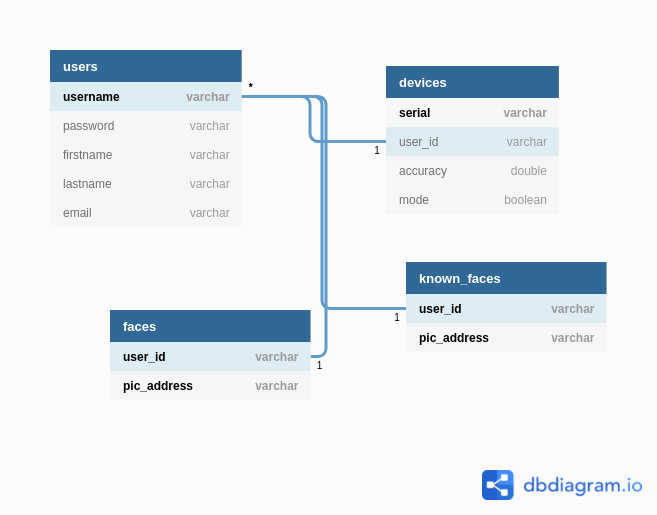
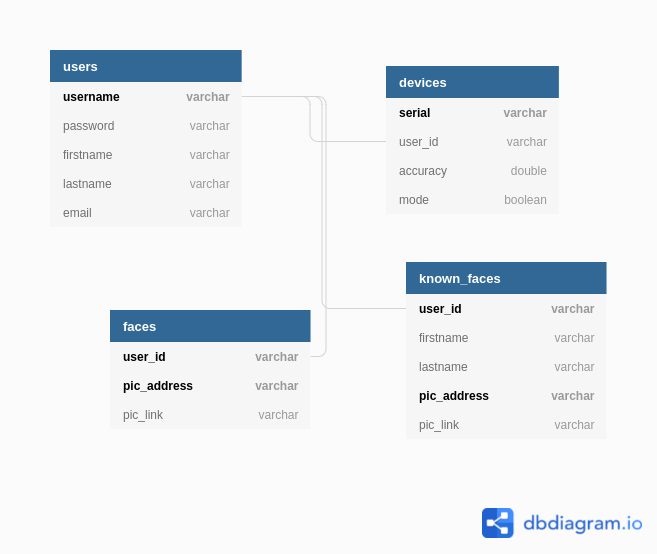
add pic address to known_faces and faces

diff --git a/mainApp/api/views.py b/mainApp/api/views.py
@@ -4,10 +4,22 @@ from rest_framework.permissions import AllowAny
 from mainApp.api.serializer import RegisterSerializer
 from rest_framework import generics
 
+from rest_framework.views import APIView
+from rest_framework.response import Response
+from rest_framework.permissions import IsAuthenticated
+
 
 class RegisterView(generics.CreateAPIView):
     queryset = User.objects.all()
     permission_classes = (AllowAny,)
     serializer_class = RegisterSerializer
-    # print('serializer_class.fields.')
 
+
+class HelloView(APIView):
+    permission_classes = (IsAuthenticated,)
+
+    def get(self, request):
+        user = request.user
+        output = {}
+        output['name'] = user.first_name
+        return Response(output)

diff --git a/mainApp/models.py b/mainApp/models.py
@@ -12,8 +12,11 @@ class Device(models.Model):
 class Face(models.Model):
     user = models.ForeignKey(User, on_delete=models.CASCADE, blank=False)
     pic_address = models.CharField(max_length=1024, blank=False)
+    pic_link = models.CharField(max_length=1024, blank=False, default=' ')
 
 
 class KnownFace(models.Model):
     user = models.ForeignKey(User, on_delete=models.CASCADE, blank=False)
-    pic_address = models.CharField(max_length=1024, blank=False)
+    pic_address = models.CharField(max_length=1024, blank=False, default=' ')
+    first_name = models.CharField(max_length=1024, blank=False, default=' ')
+    last_name = models.CharField(max_length=1024, blank=False, default=' ')

diff --git a/web/urls.py b/web/urls.py
@@ -2,7 +2,7 @@ from django.urls import path
 from rest_framework_simplejwt import views as jwt_views
 
 from mainApp.api.views import RegisterView
-from mainApp.views import HelloView
+from mainApp.api.views import HelloView
 from django.contrib import admin
 
 urlpatterns = [

diff --git a/README.md b/README.md
@@ -10,3 +10,5 @@ in below:
 ` http post http://127.0.0.1:8000/api/token/ username=mahdi  password=Ma13761376@ `
 
 chromium-browser --disable-web-security --user-data-dir="/home/mahdi"
+
+http GET 127.0.0.1:8000/hello/ 'Authorization:Bearer eyJ0eXAiOiJKV1QiLCJhbGciOiJIUzI1NiJ9.eyJ0b2tlbl90eXBlIjoiYWNjZXNzIiwiZXhwIjoxNjQ0MTIxMjU3LCJqdGkiOiI2MzczYWNkODY0NzE0ZDUzYTgxZjcwYzk2ZWI3MTIwNSIsInVzZXJfaWQiOjF9.W1flCrkz3HovBz7Q_H3hmeX0-Dhj0ZrgNhoZLimY2PE'
